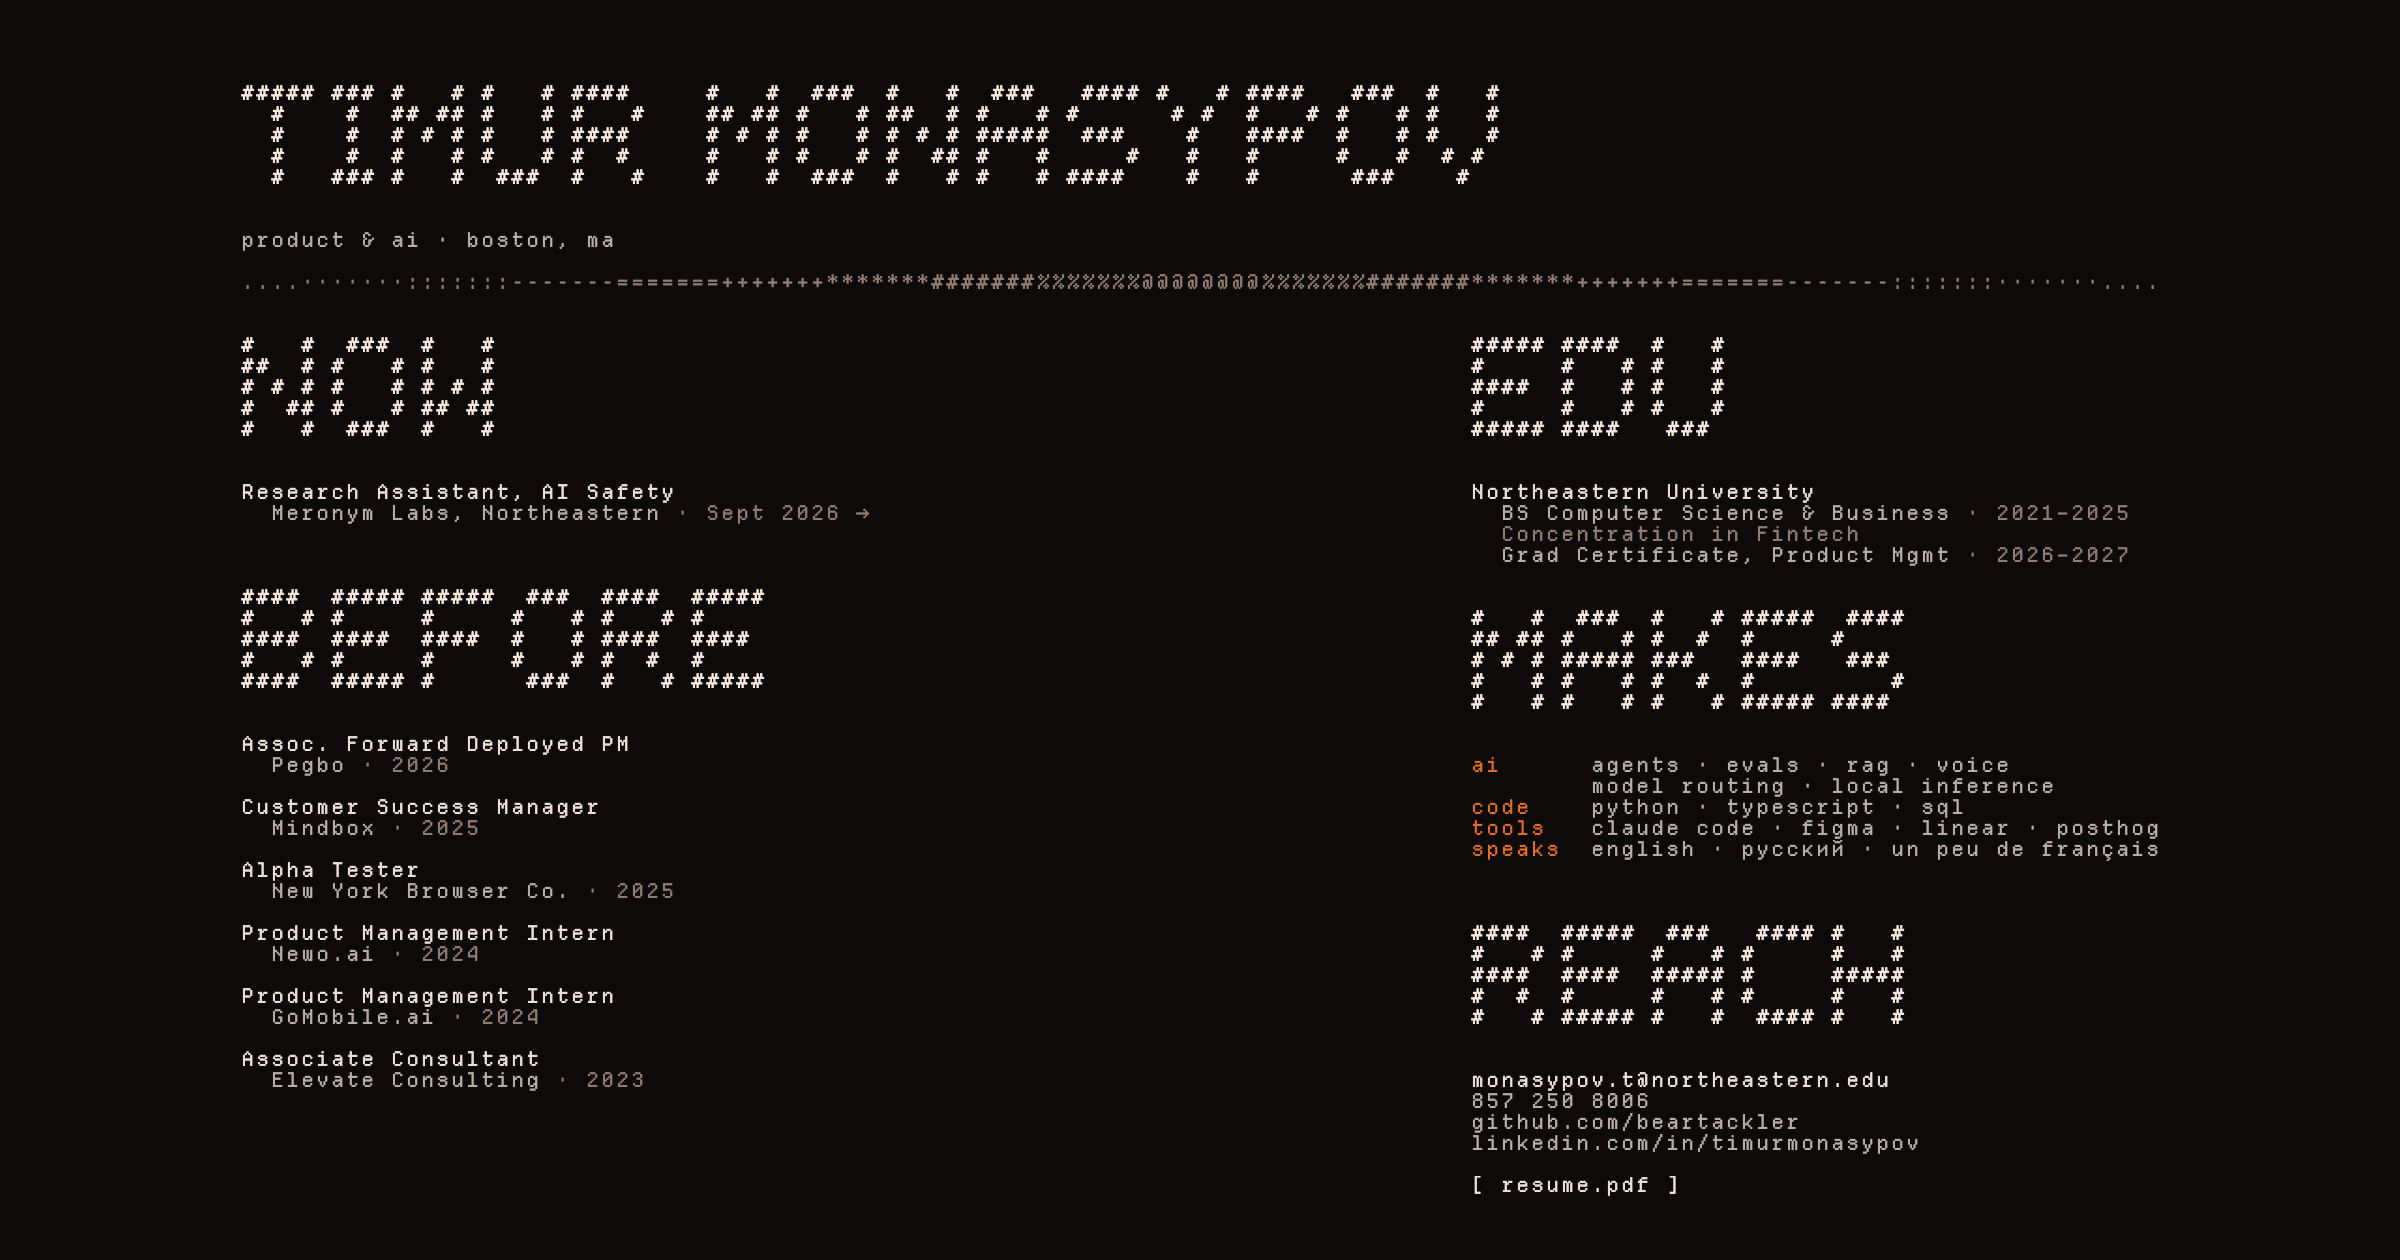
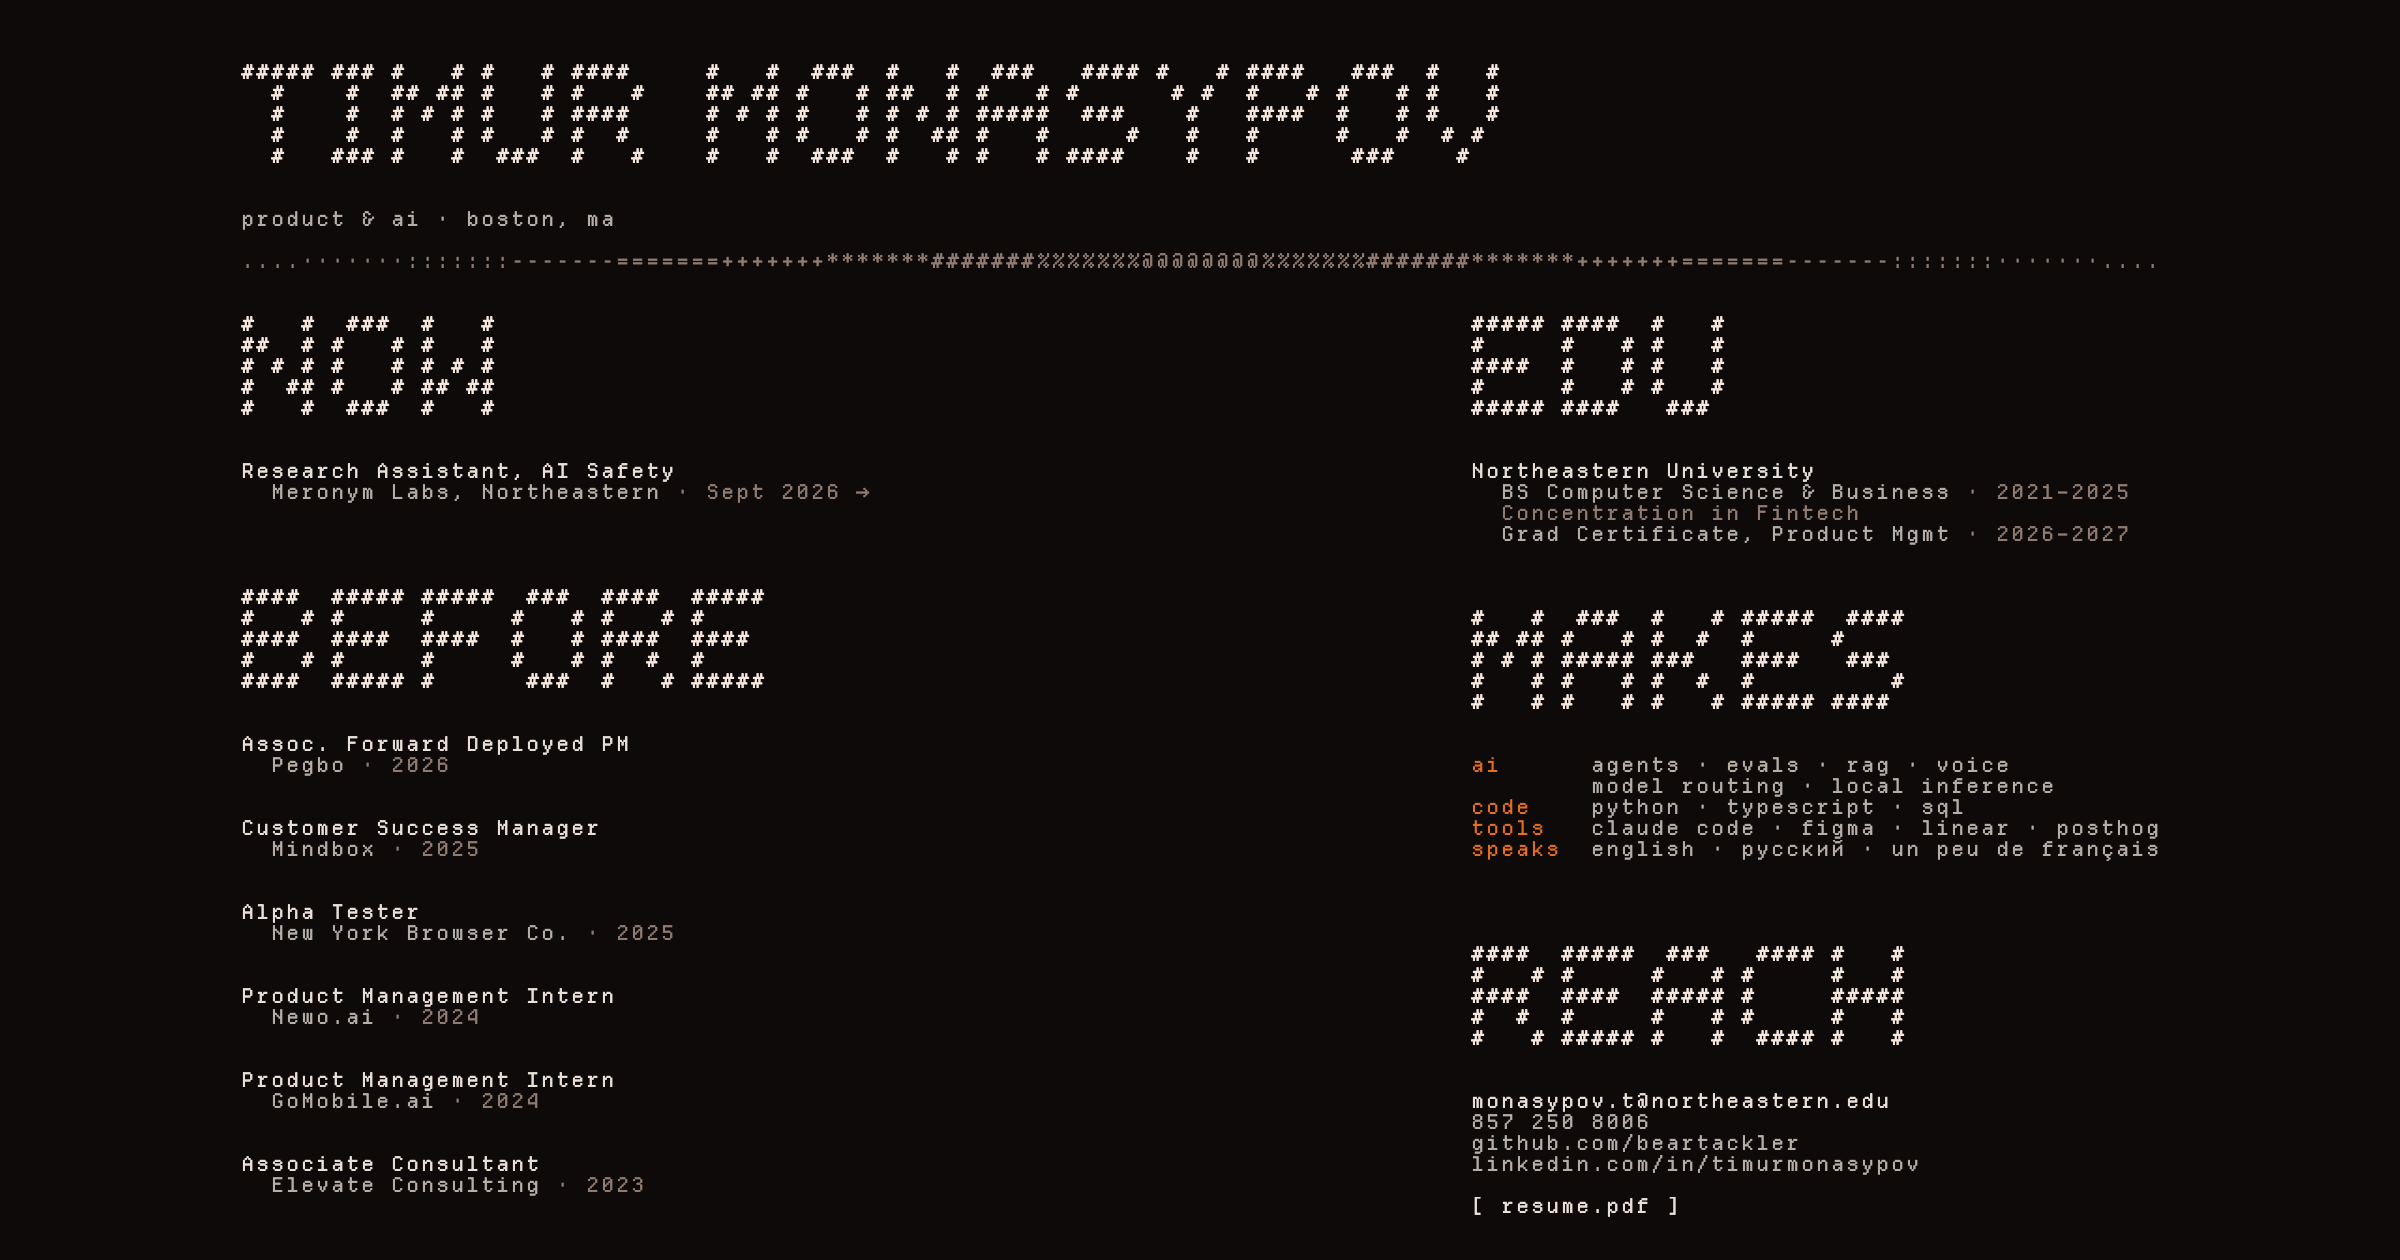
Extend the grid to the viewport, and loosen the vertical rhythm
The plane was only as tall as its content, so cells simply did not exist
above the first line or below the last and the haze had nowhere to land:
hard black bars top and bottom on any screen taller than the composition.
The plane is now padded to the viewport and the composition is centred
inside it, so light reaches every edge.

Dropping the role one-liners took two rows out of every entry but left the
spacing untouched, which made the left column short and the two columns end
far apart. Roles now sit two blank rows apart instead of one, with matching
air around the education and craft blocks. The columns land within a row of
each other and the poster fills the frame again.

diff --git a/src/layout.ts b/src/layout.ts
@@ -95,24 +95,32 @@ class Draft {
     return row + BLOCK_ROWS;
   }
 
-  bake(cols: number): Plane {
-    const rows = this.maxRow + 2;
+  /**
+   * `minRows` pads the plane out to the viewport and centres the composition
+   * inside it. Without it the grid ends where the text ends and the lantern
+   * has no cells to light near the top and bottom edges of the screen.
+   */
+  bake(cols: number, minRows: number): Plane {
+    const contentRows = this.maxRow + 2;
+    const rows = Math.max(contentRows, minRows);
+    const shift = Math.max(0, Math.floor((rows - contentRows) / 2));
     const chars = new Uint16Array(cols * rows);
     const tone = new Uint8Array(cols * rows);
     const links: LinkRegion[] = [];
 
     for (const op of this.ops) {
       const glyphs = [...op.s];
+      const row = op.row + shift;
       for (let i = 0; i < glyphs.length; i++) {
         const c = op.col + i;
-        if (c < 0 || c >= cols || op.row < 0 || op.row >= rows) continue;
+        if (c < 0 || c >= cols || row < 0 || row >= rows) continue;
         const code = glyphs[i].charCodeAt(0);
         if (code === 32) continue; // spaces stay empty, not blank glyphs
-        chars[op.row * cols + c] = code;
-        tone[op.row * cols + c] = op.tone;
+        chars[row * cols + c] = code;
+        tone[row * cols + c] = op.tone;
       }
       if (op.kind === 'link') {
-        links.push({ col: op.col, row: op.row, len: glyphs.length, href: op.href, label: op.s });
+        links.push({ col: op.col, row, len: glyphs.length, href: op.href, label: op.s });
       }
     }
 
@@ -138,7 +146,8 @@ class Draft {
       }
     }
 
-    return { cols, rows, chars, tone, textCells, links, home: this.home, runId, runCount };
+    const home = { col: this.home.col, row: this.home.row + shift };
+    return { cols, rows, chars, tone, textCells, links, home, runId, runCount };
   }
 }
 
@@ -212,7 +221,7 @@ const LEFT_W = 52;
 const RIGHT_W = 46;
 const NARROW_W = 54; // exactly wide enough for MONASYPOV as block type
 
-export function compose(cols: number): Plane {
+export function compose(cols: number, minRows = 0): Plane {
   const d = new Draft();
   const twoUp = cols >= LEFT_W + RIGHT_W + 8 + 8;
 
@@ -232,16 +241,16 @@ export function compose(cols: number): Plane {
 
     // Left column: the work, newest first.
     let yl = d.block(x0, top, 'NOW', Tone.Display) + 2;
-    for (const r of NOW) yl = roleBlock(d, x0, yl, r) + 1;
+    for (const r of NOW) yl = roleBlock(d, x0, yl, r) + 2;
     yl += 2;
     yl = d.block(x0, yl, 'BEFORE', Tone.Display) + 2;
-    for (const r of BEFORE) yl = roleBlock(d, x0, yl, r) + 1;
+    for (const r of BEFORE) yl = roleBlock(d, x0, yl, r) + 2;
 
     // Right column: school, tools, how to reach him.
     let yr = d.block(xR, top, 'EDU', Tone.Display) + 2;
-    yr = paintEdu(d, xR, yr) + 1;
+    yr = paintEdu(d, xR, yr) + 2;
     yr = d.block(xR, yr, 'MAKES', Tone.Display) + 2;
-    yr = paintMakes(d, xR, yr) + 3;
+    yr = paintMakes(d, xR, yr) + 4;
     yr = d.block(xR, yr, 'REACH', Tone.Display) + 2;
     paintReach(d, xR, yr);
   } else {
@@ -256,18 +265,18 @@ export function compose(cols: number): Plane {
     y += 3;
 
     y = d.block(x0, y, 'NOW', Tone.Display) + 2;
-    for (const r of NOW) y = roleBlock(d, x0, y, r) + 1;
+    for (const r of NOW) y = roleBlock(d, x0, y, r) + 2;
     y += 2;
     y = d.block(x0, y, 'BEFORE', Tone.Display) + 2;
-    for (const r of BEFORE) y = roleBlock(d, x0, y, r) + 1;
+    for (const r of BEFORE) y = roleBlock(d, x0, y, r) + 2;
     y += 2;
     y = d.block(x0, y, 'EDU', Tone.Display) + 2;
-    y = paintEdu(d, x0, y) + 1;
+    y = paintEdu(d, x0, y) + 2;
     y = d.block(x0, y, 'MAKES', Tone.Display) + 2;
-    y = paintMakes(d, x0, y) + 3;
+    y = paintMakes(d, x0, y) + 4;
     y = d.block(x0, y, 'REACH', Tone.Display) + 2;
     paintReach(d, x0, y);
   }
 
-  return d.bake(cols);
+  return d.bake(cols, minRows);
 }

diff --git a/src/main.ts b/src/main.ts
@@ -79,7 +79,8 @@ function build(): void {
 
   const cols = Math.max(20, Math.floor(w / cellW));
   const previous = field;
-  plane = compose(cols);
+  // Pad the plane to the viewport so haze reaches every edge of the screen.
+  plane = compose(cols, Math.ceil(h / cellH));
 
   const dpr = Math.min(2, devicePixelRatio || 1);
   canvas.width = Math.round(w * dpr);
@@ -90,7 +91,7 @@ function build(): void {
   atlas = new Atlas(cellW, cellH, dpr, m.fontPx, charsetFor(plane), palette);
 
   originX = Math.round((w - cols * cellW) / 2);
-  spacer.style.height = `${Math.max(plane.rows * cellH + cellH * 2, h)}px`;
+  spacer.style.height = `${Math.max(plane.rows * cellH, h)}px`;
 
   field = new Field(plane.cols, plane.rows, plane.runCount);
   if (previous && previous.cols === plane.cols && previous.rows === plane.rows) {
@@ -140,8 +141,10 @@ function buildHotspots(): void {
 }
 
 function syncOrigin(): void {
-  const slack = innerHeight - plane.rows * cellH;
-  originY = slack > 0 ? Math.round(slack / 2) : -Math.round(scrollY);
+  // The plane always covers at least the viewport, so it is top-aligned and
+  // the composition is centred inside the plane rather than the plane inside
+  // the window.
+  originY = -Math.round(scrollY);
   hotspots.style.transform = `translateY(${originY}px)`;
 }
 
